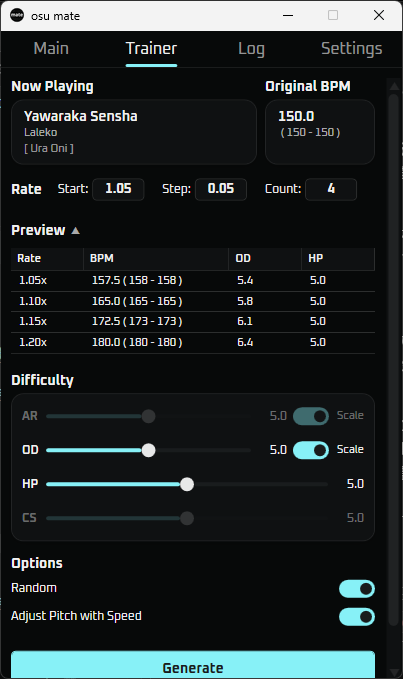
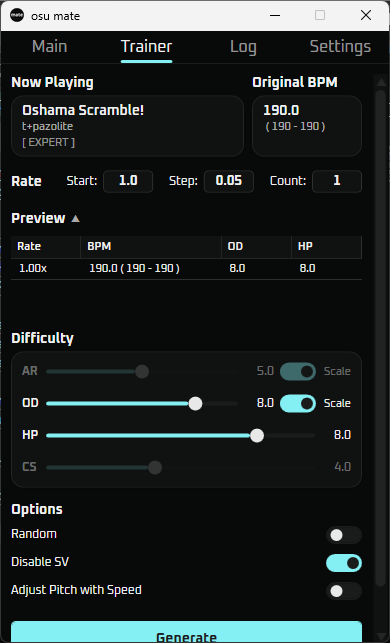
v1.4.0

diff --git a/README.md b/README.md
@@ -28,7 +28,7 @@ A companion desktop tool for **osu!** (Windows, C# / WPF).
 
   </details>
 
-- **key overlay**: real-time visualization of key inputs (and map)
+- **key overlay**: real-time visualization of key inputs
 
   <details>
   <summary>Screenshot</summary>
@@ -37,7 +37,7 @@ A companion desktop tool for **osu!** (Windows, C# / WPF).
 
   </details>
 
-- **Trainer**: generation of speed-changed charts (via NAudio + SoundTouch.Net) and randomized charts (excluding osu!catch Mode)
+- **Trainer**: generation of speed-changed charts (via NAudio + SoundTouch.Net), randomized charts (excluding osu!catch Mode) and No SV charts (excluding osu!standard & osu!catch Mode)
 
   <details>
   <summary>Screenshot</summary>
